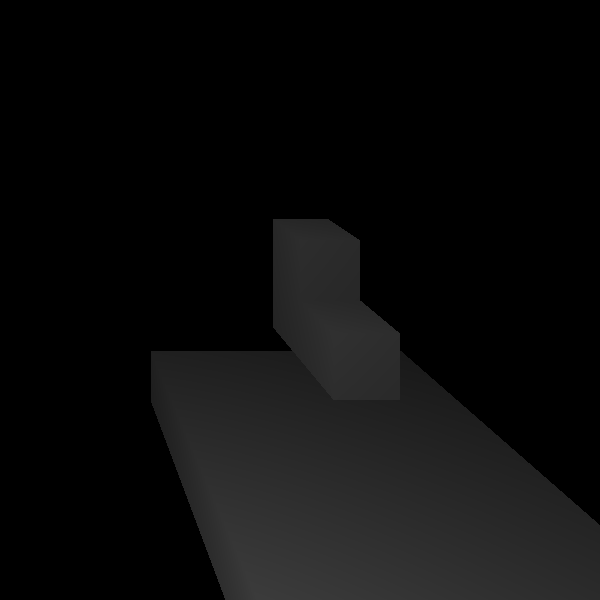
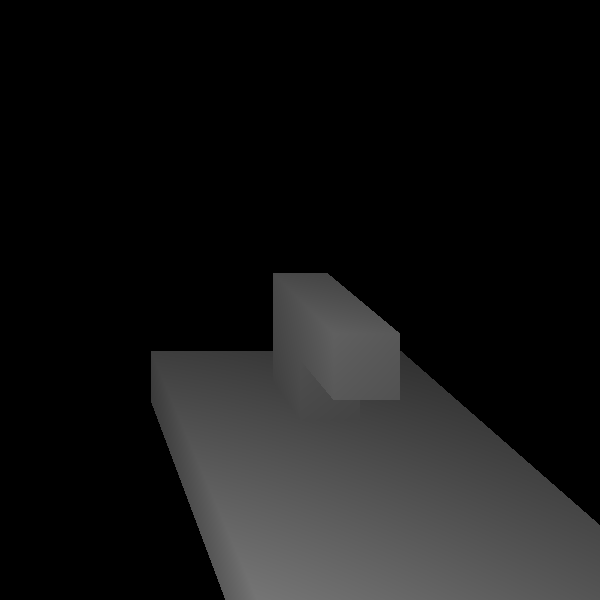
Octree render: SVO Index calculation

Changed region(s): [[0.24, 0.36, 1.0, 1.0]]

diff --git a/2022/octree-render/rustree/src/main.rs b/2022/octree-render/rustree/src/main.rs
@@ -1,4 +1,4 @@
-use std::path::Path;
+use std::{path::Path, time::Instant};
 
 use image::{EncodableLayout, ImageBuffer, Rgb};
 
@@ -9,6 +9,7 @@ struct Point {
     pub z: i64,
 }
 
+#[derive(Debug, Clone, Copy)]
 struct Vec3 {
     pub x: f64,
     pub y: f64,
@@ -55,20 +56,23 @@ impl Vec3 {
 
 #[derive(Debug)]
 struct Cube {
-    pub pos: Point,
-    pub size: i64,
+    pos: Point,
+    fpos: Vec3,
+    size: i64,
 }
 
 impl Cube {
     fn new(x: i64, y: i64, z: i64, size: i64) -> Cube {
+        let p = Point::new(x, y, z);
         Cube {
-            pos: Point::new(x, y, z),
+            pos: p,
+            fpos: p.to_vec3(),
             size,
         }
     }
 
     fn distance_to(&self, p: &Vec3) -> f64 {
-        let pos = self.pos.to_vec3();
+        let pos = self.fpos;
         let s = self.size as f64;
         let dx = (pos.x - p.x).max(p.x - (pos.x + s)).max(0.);
         let dy = (pos.y - p.y).max(p.y - (pos.y + s)).max(0.);
@@ -78,7 +82,7 @@ impl Cube {
     }
 
     fn containsf(&self, p: &Vec3) -> bool {
-        let pos = self.pos.to_vec3();
+        let pos = self.fpos;
         let size = self.size as f64;
 
         !(pos.x > p.x
@@ -99,7 +103,7 @@ impl Cube {
     }
 
     fn max_marchable_distance(&self, p: &Vec3, d: &Vec3) -> f64 {
-        let bpos = self.pos.to_vec3();
+        let bpos = self.fpos;
         let size = self.size as f64;
         let dx = if d.x > 0. {
             bpos.x + size - p.x
@@ -189,38 +193,52 @@ impl Octree {
     fn split(&mut self) {
         let Cube {
             pos: Point { x, y, z },
+            fpos: _,
             size,
         } = self.bounds;
         let n = size / 2;
         self.data = OctreeData::Split(Box::new([
             Self::new(Cube::new(x + 0, y + 0, z + 0, n)),
-            Self::new(Cube::new(x + 0, y + n, z + 0, n)),
-            Self::new(Cube::new(x + n, y + 0, z + 0, n)),
-            Self::new(Cube::new(x + n, y + n, z + 0, n)),
-            // Bottom
             Self::new(Cube::new(x + 0, y + 0, z + n, n)),
+            Self::new(Cube::new(x + 0, y + n, z + 0, n)),
             Self::new(Cube::new(x + 0, y + n, z + n, n)),
+            Self::new(Cube::new(x + n, y + 0, z + 0, n)),
             Self::new(Cube::new(x + n, y + 0, z + n, n)),
+            Self::new(Cube::new(x + n, y + n, z + 0, n)),
             Self::new(Cube::new(x + n, y + n, z + n, n)),
         ]));
     }
 
-    fn find_closest(&self, p: &Vec3, dir: &Vec3, closest: f64) -> (Option<Point>, f64) {
+    fn index_of(&self, p: &Vec3) -> usize {
+        let hs = self.bounds.size as f64 * 0.5;
+        let mut idx = 0;
+        if p.x > self.bounds.fpos.x + hs {
+            idx |= 0b100;
+        }
+        if p.y > self.bounds.fpos.y + hs {
+            idx |= 0b010;
+        }
+        if p.z > self.bounds.fpos.z + hs {
+            idx |= 0b001;
+        }
+        idx
+    }
+
+    fn find_closest(&self, p: &Vec3, dir: &Vec3) -> (Option<Point>, f64) {
         if !self.bounds.containsf(&p) {
             return (None, f64::MAX);
         }
-        let march_dist = self.bounds.max_marchable_distance(p, dir);
+
         let mut voxel = None;
-        let mut dist = march_dist;
+        let mut dist = f64::MAX;
 
         match &self.data {
             OctreeData::Split(subtrees) => {
-                for tree in subtrees.iter() {
-                    let (v, d) = tree.find_closest(p, dir, dist);
-                    if d < dist {
-                        voxel = v;
-                        dist = d;
-                    }
+                let tree = &subtrees[self.index_of(p)];
+                let (v, d) = tree.find_closest(p, dir);
+                if d < dist {
+                    voxel = v;
+                    dist = d;
                 }
             }
             OctreeData::Voxel => {
@@ -228,6 +246,12 @@ impl Octree {
                 voxel = Some(self.bounds.pos);
             }
             OctreeData::Empty => {
+                return (None, self.bounds.max_marchable_distance(p, dir));
+            }
+        }
+        if dist > self.bounds.size as f64 {
+            let march_dist = self.bounds.max_marchable_distance(p, dir);
+            if dist > march_dist {
                 return (None, march_dist);
             }
         }
@@ -235,7 +259,7 @@ impl Octree {
     }
 }
 
-const MAX_SAMPLE_STEPS: usize = 10;
+const MAX_SAMPLE_STEPS: usize = 1000;
 const MAX_DISTANCE: f64 = 100.;
 const MIN_DISTANCE: f64 = 0.0001;
 const PUSH_ANALAYZE_DISTANCE: f64 = 0.000000001;
@@ -244,14 +268,14 @@ fn main() {
     let mut tree = Octree::new(Cube::new(-1, -1, -1, 128));
 
     tree.insert(Point::new(5, 5, 10));
-    tree.insert(Point::new(5, 4, 10));
+    tree.insert(Point::new(5, 6, 10));
     tree.insert(Point::new(5, 5, 9));
     for x in 3..8 {
         for z in 5..12 {
             tree.insert(Point::new(x, 7, z));
         }
     }
-
+    let now = Instant::now();
     let mut buffer = ImageBuffer::new(600, 600);
     for i in 0..600 {
         for j in 0..600 {
@@ -259,7 +283,7 @@ fn main() {
             let dir = Vec3::new(i as f64, j as f64, 600.).normalized();
             let mut voxel = None;
             for _ in 0..MAX_SAMPLE_STEPS {
-                let (v, d) = tree.find_closest(&pos, &dir, f64::MAX);
+                let (v, d) = tree.find_closest(&pos, &dir);
                 if let Some(v) = v {
                     voxel = Some(v);
                     break;
@@ -274,10 +298,12 @@ fn main() {
                 }
             }
             if let Some(_) = voxel {
-                let level = ((1. / (pos.len() as f64 / 5.)).powf(2.) * 65536.) as u16;
+                let level = ((1. / (pos.len() as f64 / 7.)).powi(2) * 65536.) as u16;
                 buffer.put_pixel(i, j, Rgb([level, level, level]));
             }
         }
     }
+    let elapsed = now.elapsed();
+    println!("Elapsed: {:.2?}", elapsed);
     buffer.save(&Path::new("out.png")).unwrap();
 }
